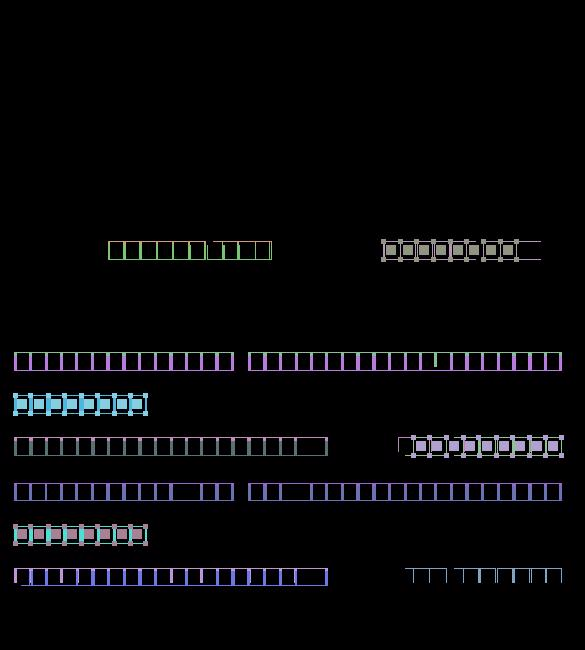
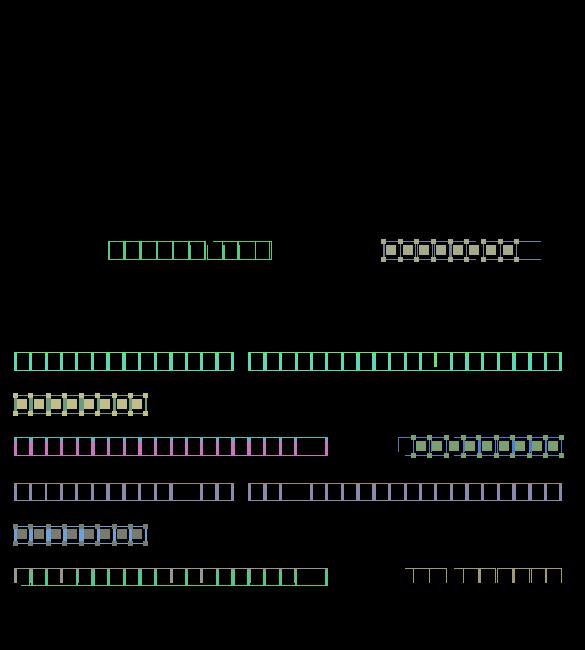
Refactored all drawing components now

diff --git a/src/OpenFieldReader.cs b/src/OpenFieldReader.cs
@@ -77,18 +77,11 @@ namespace OpenFieldReader
 			}
 		}
 			
-
 		public static OpenFieldReaderResult FindBoxes(int[] imgData, int row, int col, OpenFieldReaderOptions options)
 		{
 			// Debug image.
-			int[,] debugImg = null;
-			if (options.GenerateDebugImage)
-			{
-				debugImg = new int[row, col];
-				for (int y = 0; y < row; y++)
-					for (int x = 0; x < col; x++)
-						debugImg[y, x] = 0;
-			}
+			Painter painter = options.GenerateDebugImage ? new Painter(row, col) : null;
+			
 			
 			// We are seaching for pattern!
 			// We look for junctions.
@@ -652,34 +645,9 @@ namespace OpenFieldReader
 				}
 			}
 
-			nextGroupId = 0;
-
 			if (options.GenerateDebugImage)
 			{
-				foreach (var item in lineClusters)
-				{
-					nextGroupId++;
-					foreach (var junction in item.Junctions)
-					{
-						DrawJunction(debugImg, nextGroupId, junction);
-					}
-				}
-
-				foreach (var item in boxesClusters)
-				{
-					nextGroupId++;
-
-					// Debug img:
-					foreach (var junction in item.TopLine.Junctions)
-					{
-						DrawJunction(debugImg, nextGroupId, junction);
-					}
-
-					foreach (var junction in item.BottomLine.Junctions)
-					{
-						DrawJunction(debugImg, nextGroupId, junction);
-					}
-				}
+				painter.DrawJunctions(lineClusters, boxesClusters);
 			}
 
 			// Let's explore boxes!
@@ -713,7 +681,7 @@ namespace OpenFieldReader
 
 			if (options.GenerateDebugImage)
 			{
-				DrawBoxes(allBoxes, debugImg, ref nextGroupId);
+				painter.DrawBoxes(allBoxes);
 			}
 
 			var finalResult = new OpenFieldReaderResult
@@ -724,23 +692,7 @@ namespace OpenFieldReader
 
 			if (options.GenerateDebugImage)
 			{
-				using (var image = new Image<Rgba32>(col, row))
-				{
-					AssignColor(debugImg, true);
-
-					for (int y = 0; y < row; y++)
-					{
-						for (int x = 0; x < col; x++)
-						{
-							int val = debugImg[y, x];
-							byte r = (byte)(~((val >> 16) & 0xFF));
-							byte g = (byte)(~((val >> 8) & 0xFF));
-							byte b = (byte)(~((val) & 0xFF));
-							image[x, y] = new Rgba32(r, g, b);
-						}
-					}
-					image.Save("debug.jpg");
-				}
+				painter.DrawImage();
 			}
 			
 			return finalResult;
